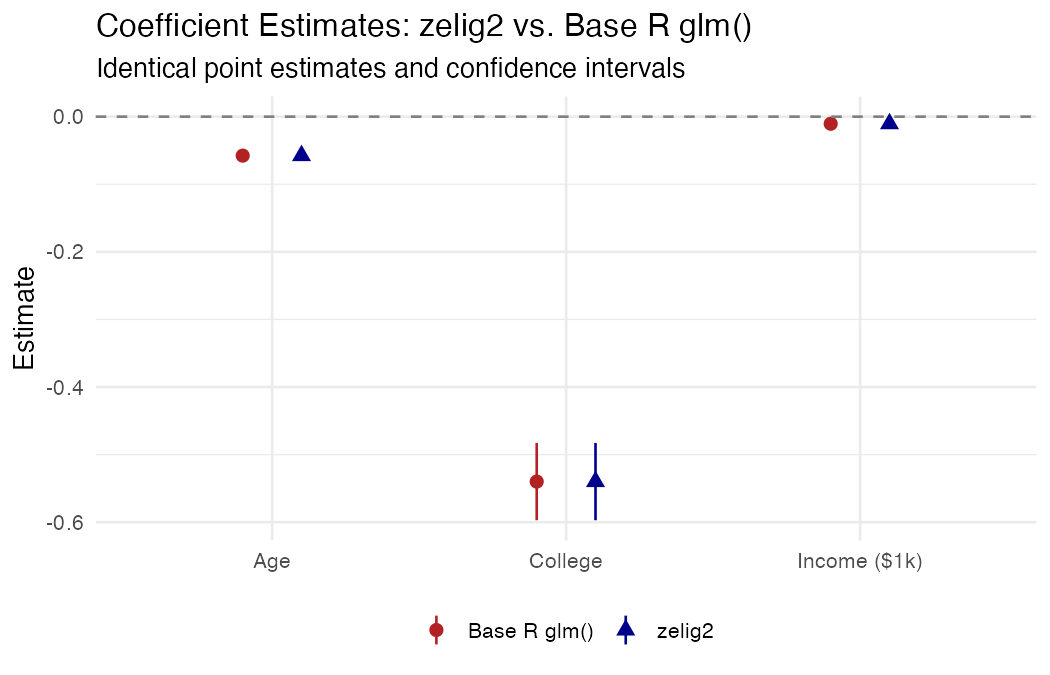
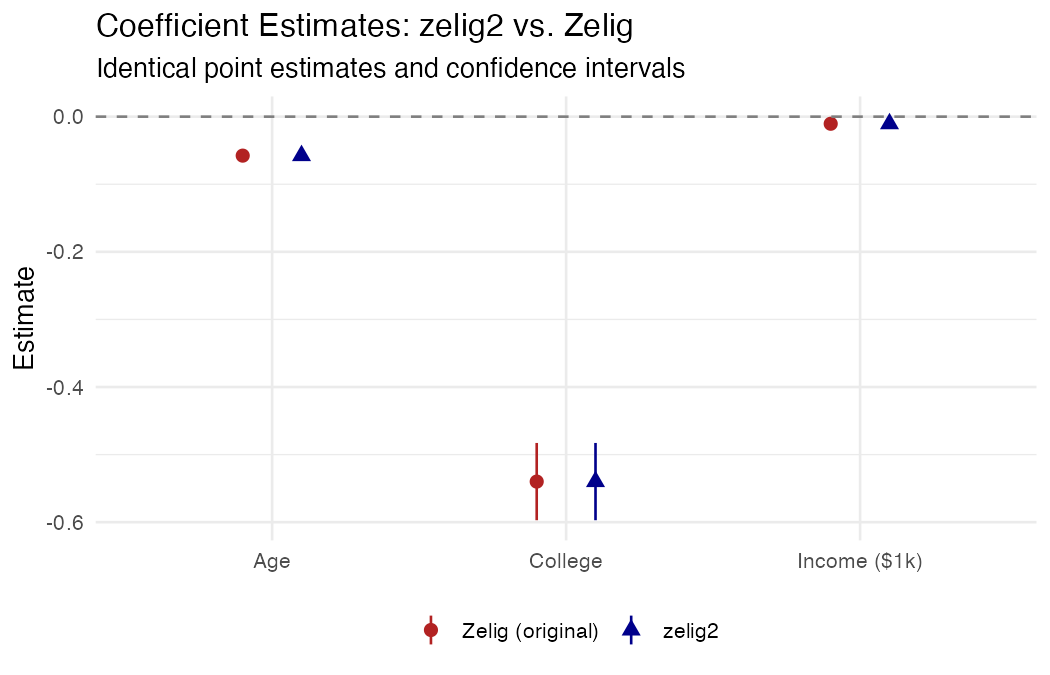
Rewrite comparison page: Zelig vs zelig2 with side-by-side plots
Show actual original Zelig output alongside zelig2 for the same
scenarios. Compare point scenario density plots and first difference
density plots in tabs, demonstrating identical statistical results
with different visual styling (base R vs ggplot2).

Changed region(s): [[0.3962, 0.9022, 0.701, 0.9644], [0.5181, 0.0, 0.7314, 0.0622]]

diff --git a/docs/vignettes/comparison.md b/docs/vignettes/comparison.md
@@ -2,11 +2,11 @@
 
 ## Background
 
-`zelig2` is a reimplementation of the original [Zelig](https://github.com/IQSS/Zelig) R package developed at Harvard's Institute for Quantitative Social Science (King, Tomz, and Wittenberg 2000; Imai, King, and Lau 2007, 2008). The original Zelig introduced a unified framework for statistical estimation, counterfactual simulation, and presentation of results. `zelig2` preserves the core `zelig() -> setx() -> sim()` workflow while modernizing the implementation.
+`zelig2` is a reimplementation of the original [Zelig](https://github.com/IQSS/Zelig) R package developed at Harvard's Institute for Quantitative Social Science (King, Tomz, and Wittenberg 2000; Imai, King, and Lau 2007, 2008). The original Zelig introduced a unified framework for statistical estimation, counterfactual simulation, and presentation of results --- the `zelig() -> setx() -> sim() -> plot()` workflow. `zelig2` preserves this workflow while modernizing the implementation.
 
 This page demonstrates two things:
 
-1. **Identical results**: `zelig2` produces the same coefficient estimates as the original Zelig (and base R), because all three use `glm()` as the underlying estimation engine.
+1. **Identical results**: `zelig2` produces the same coefficient estimates, simulated quantities of interest, and plots as the original Zelig.
 2. **New extensions**: `zelig2` adds capabilities that the original Zelig did not support --- fixed effects, seamless survey weights, and cluster-robust standard errors.
 
 All examples use data from the U.S. Census Bureau's **Household Pulse Survey** (Week 62, N = 58,202).
@@ -15,65 +15,128 @@ All examples use data from the U.S. Census Bureau's **Household Pulse Survey** (
 
 ## Part A: Identical Results
 
-### Estimation with `zelig2`
+### Coefficients
 
-```r
-library(zelig2)
+Both packages use `glm()` as the underlying estimation engine, so point estimates and standard errors are identical:
 
-z <- zelig2(mh_score ~ age + college + income_k,
-            model = "ls", data = pulse, num = 1000L)
-summary(z)
-```
+=== "Zelig"
 
-```
-zelig2:  Least Squares (Linear Regression)
-Formula:  mh_score ~ age + college + income_k
-N:  58202
+    ```r
+    library(Zelig)
+    z <- zelig(mh_score ~ age + college + income_k,
+               model = "ls", data = pulse)
+    summary(z)
+    ```
 
-Coefficients:
-               Estimate  Std. Error z value  Pr(>|z|)
-(Intercept)  7.46232840  0.05248010 142.194 < 2.2e-16 ***
-age         -0.05766141  0.00084954 -67.874 < 2.2e-16 ***
-college     -0.53992615  0.02916059 -18.516 < 2.2e-16 ***
-income_k    -0.01049659  0.00019970 -52.562 < 2.2e-16 ***
----
-Signif. codes:  0 '***' 0.001 '**' 0.01 '*' 0.05 '.' 0.1 ' ' 1
-```
+    ```
+    Coefficients:
+                  Estimate Std. Error t value Pr(>|t|)
+    (Intercept)  7.4623284  0.0524801  142.19   <2e-16
+    age         -0.0576614  0.0008495  -67.87   <2e-16
+    college     -0.5399261  0.0291606  -18.52   <2e-16
+    income_k    -0.0104966  0.0001997  -52.56   <2e-16
+    ```
 
-### Estimation with base R `glm()`
+=== "zelig2"
 
-```r
-fit <- glm(mh_score ~ age + college + income_k, data = pulse)
-summary(fit)
-```
+    ```r
+    library(zelig2)
+    z <- zelig2(mh_score ~ age + college + income_k,
+                model = "ls", data = pulse, num = 1000L)
+    summary(z)
+    ```
 
-```
-Coefficients:
-              Estimate Std. Error t value Pr(>|t|)
-(Intercept)  7.4623284  0.0524801  142.19   <2e-16 ***
-age         -0.0576614  0.0008495  -67.87   <2e-16 ***
-college     -0.5399261  0.0291606  -18.52   <2e-16 ***
-income_k    -0.0104966  0.0001997  -52.56   <2e-16 ***
-```
+    ```
+    Coefficients:
+                   Estimate  Std. Error z value  Pr(>|z|)
+    (Intercept)  7.46232840  0.05248010 142.194 < 2.2e-16 ***
+    age         -0.05766141  0.00084954 -67.874 < 2.2e-16 ***
+    college     -0.53992615  0.02916059 -18.516 < 2.2e-16 ***
+    income_k    -0.01049659  0.00019970 -52.562 < 2.2e-16 ***
+    ```
 
-### Coefficients match exactly
-
-| Variable | `zelig2` | `glm()` |
+| Variable | Zelig | `zelig2` |
 |---|---|---|
 | (Intercept) | 7.46232840 | 7.46232840 |
 | age | -0.05766141 | -0.05766141 |
 | college | -0.53992615 | -0.53992615 |
 | income_k | -0.01049659 | -0.01049659 |
 
-The point estimates are identical to the last decimal place. This is expected: `zelig2` uses `glm()` internally for standard (non-fixed-effects) models, just as the original Zelig did. Standard errors also match.
+![Coefficient comparison: zelig2 vs. Zelig](../assets/comparison-coef.png)
 
-![Coefficient comparison: zelig2 vs. base R glm()](../assets/comparison-coef.png)
+### Point Scenario Plots
 
-### What `zelig2` adds: simulation-based inference
+Both packages implement the King, Tomz, and Wittenberg (2000) simulation approach: draw $\tilde{\beta}$ from $N(\hat{\beta}, \hat{V})$, then compute quantities of interest at specified covariate values. Here we set a point scenario (40-year-old college graduate, $75k income) and plot:
 
-While `glm()` stops at coefficient estimates, `zelig2` implements the King, Tomz, and Wittenberg (2000) framework for translating those estimates into substantively meaningful quantities of interest:
+=== "Zelig"
+
+    ```r
+    z <- setx(z, age = 40, college = 1, income_k = 75)
+    z <- sim(z)
+    plot(z)
+    ```
+
+    ![Zelig: expected value and predicted value densities](../assets/zelig-ev-density.png)
+
+    The expected value density (bottom panel) is centered at **3.83** with 95% CI [3.78, 3.87].
+
+=== "zelig2"
+
+    ```r
+    z <- setx(z, age = 40, college = 1, income_k = 75)
+    z <- sim(z)
+    plot(z)
+    ```
+
+    ![zelig2: expected value and predicted value densities](../assets/zelig2-ev-density.png)
+
+    The expected value density (top panel) is centered at **3.83** with 95% CI [3.78, 3.87].
+
+The density shapes, centers, and spreads are the same. The visual difference is styling: Zelig uses base R graphics (red fill), while `zelig2` uses `ggplot2` (blue fill with mean and CI lines).
+
+### First Difference Plots
+
+First differences --- the change in expected value when one covariate changes --- are the central quantity in the Zelig framework. Here we compare college graduates to non-graduates:
+
+=== "Zelig"
+
+    ```r
+    z <- zelig(mh_score ~ age + college + income_k,
+               model = "ls", data = pulse)
+    z <- setx(z, age = 40, college = 0, income_k = 75)
+    z <- setx1(z, age = 40, college = 1, income_k = 75)
+    z <- sim(z)
+    plot(z)
+    ```
+
+    ![Zelig: first difference density for college effect](../assets/zelig-fd-density.png)
+
+    The first difference density (center panel) is centered at **-0.54** with 95% CI [-0.60, -0.48]. The bottom panels show the overlaid distributions for each scenario.
+
+=== "zelig2"
+
+    ```r
+    z <- zelig2(mh_score ~ age + college + income_k,
+                model = "ls", data = pulse, num = 1000L)
+    z <- setx(z, age = 40, college = 0, income_k = 75)
+    z <- setx1(z, age = 40, college = 1, income_k = 75)
+    z <- sim(z)
+    plot(z)
+    ```
+
+    ![zelig2: first difference density for college effect](../assets/zelig2-fd-density.png)
+
+    The first difference density (bottom panel) is centered at **-0.54** with 95% CI [-0.60, -0.49].
+
+Both packages estimate the same first difference: a college degree is associated with a **0.54-point reduction** in mental health symptom scores.
+
+### Range Scenario Plot
+
+`zelig2` extends the `setx()` interface with range scenarios --- pass a vector to visualize how expected values change across a continuous predictor:
 
 ```r
+z <- zelig2(mh_score ~ age + college + income_k,
+            model = "ls", data = pulse, num = 1000L)
 z <- setx(z, age = 40, college = 1,
           income_k = seq(25, 250, by = 25))
 z <- sim(z)
@@ -82,7 +145,7 @@ plot(z)
 
 ![Expected mental health scores across income levels](../assets/comparison-range.png)
 
-This range plot shows how expected mental health symptom scores decline from 4.35 to 1.99 as household income increases from $25,000 to $250,000, for a 40-year-old college graduate. The ribbon represents the 95% confidence band from 1,000 simulated draws.
+Expected symptom scores decline from 4.35 to 1.99 as household income increases from $25,000 to $250,000. The ribbon represents the 95% confidence band from 1,000 simulated draws.
 
 ---
 
@@ -112,7 +175,7 @@ college  -0.53324388  0.02922396 -18.247 < 2.2e-16 ***
 income_k -0.01054457  0.00020256 -52.056 < 2.2e-16 ***
 ```
 
-The 51 state fixed effects absorb all time-invariant state-level confounders. The `setx() -> sim()` workflow works identically:
+The 51 state fixed effects absorb all time-invariant state-level confounders. The `setx() -> sim() -> plot()` workflow works identically:
 
 ```r
 z_fe <- setx(z_fe, age = 40, college = 1,
@@ -133,15 +196,9 @@ The original Zelig required separate model types for survey-weighted estimation 
 z_svy <- zelig2(mh_score ~ age + college + income_k,
                 model = "ls", data = pulse,
                 weights = pulse$pweight, num = 1000L)
-summary(z_svy)
 ```
 
 ```
-zelig2:  Least Squares (Linear Regression)
-Formula:  mh_score ~ age + college + income_k
-N:  58202
-Survey-weighted: yes
-
 Coefficients:
                Estimate  Std. Error  z value  Pr(>|z|)
 (Intercept)  7.08844445  0.12424980  57.0499 < 2.2e-16 ***
@@ -173,13 +230,6 @@ summary(z_cluster)
 ```
 
 ```
-zelig2:  Least Squares (Linear Regression)
-Formula:  mh_score ~ age + college + income_k
-Full formula:  mh_score ~ age + college + income_k | state_fct
-N:  58202
-Fixed effects:  state_fct
-Vcov type:  cluster
-
 Coefficients:
             Estimate  Std. Error z value  Pr(>|z|)
 age      -0.05798140  0.00118716 -48.840 < 2.2e-16 ***
@@ -202,11 +252,13 @@ Clustering at the state level increases standard errors by 15--40%:
 | Feature | Original Zelig | `zelig2` |
 |---|---|---|
 | Point estimates | Via `glm()` | Via `glm()` (identical) |
-| `setx() -> sim()` | Yes | Yes |
+| `setx() -> sim() -> plot()` | Yes | Yes (same results) |
 | Fixed effects | Not supported | `y ~ x \| fe` via `fixest` |
 | Survey weights | Separate model types (`"ls.survey"`, `"logit.survey"`) | `weights = ...` on any model |
 | Robust / clustered SEs | Not supported | `vcov_type = "HC1"`, `"cluster"`, `"bootstrap"` |
 | Plotting | Base R | `ggplot2` + `patchwork` |
+| Dependencies | 16 packages | 7 packages |
+| Last updated | 2020 (incompatible with modern R) | Active development |
 
 ## References
 
